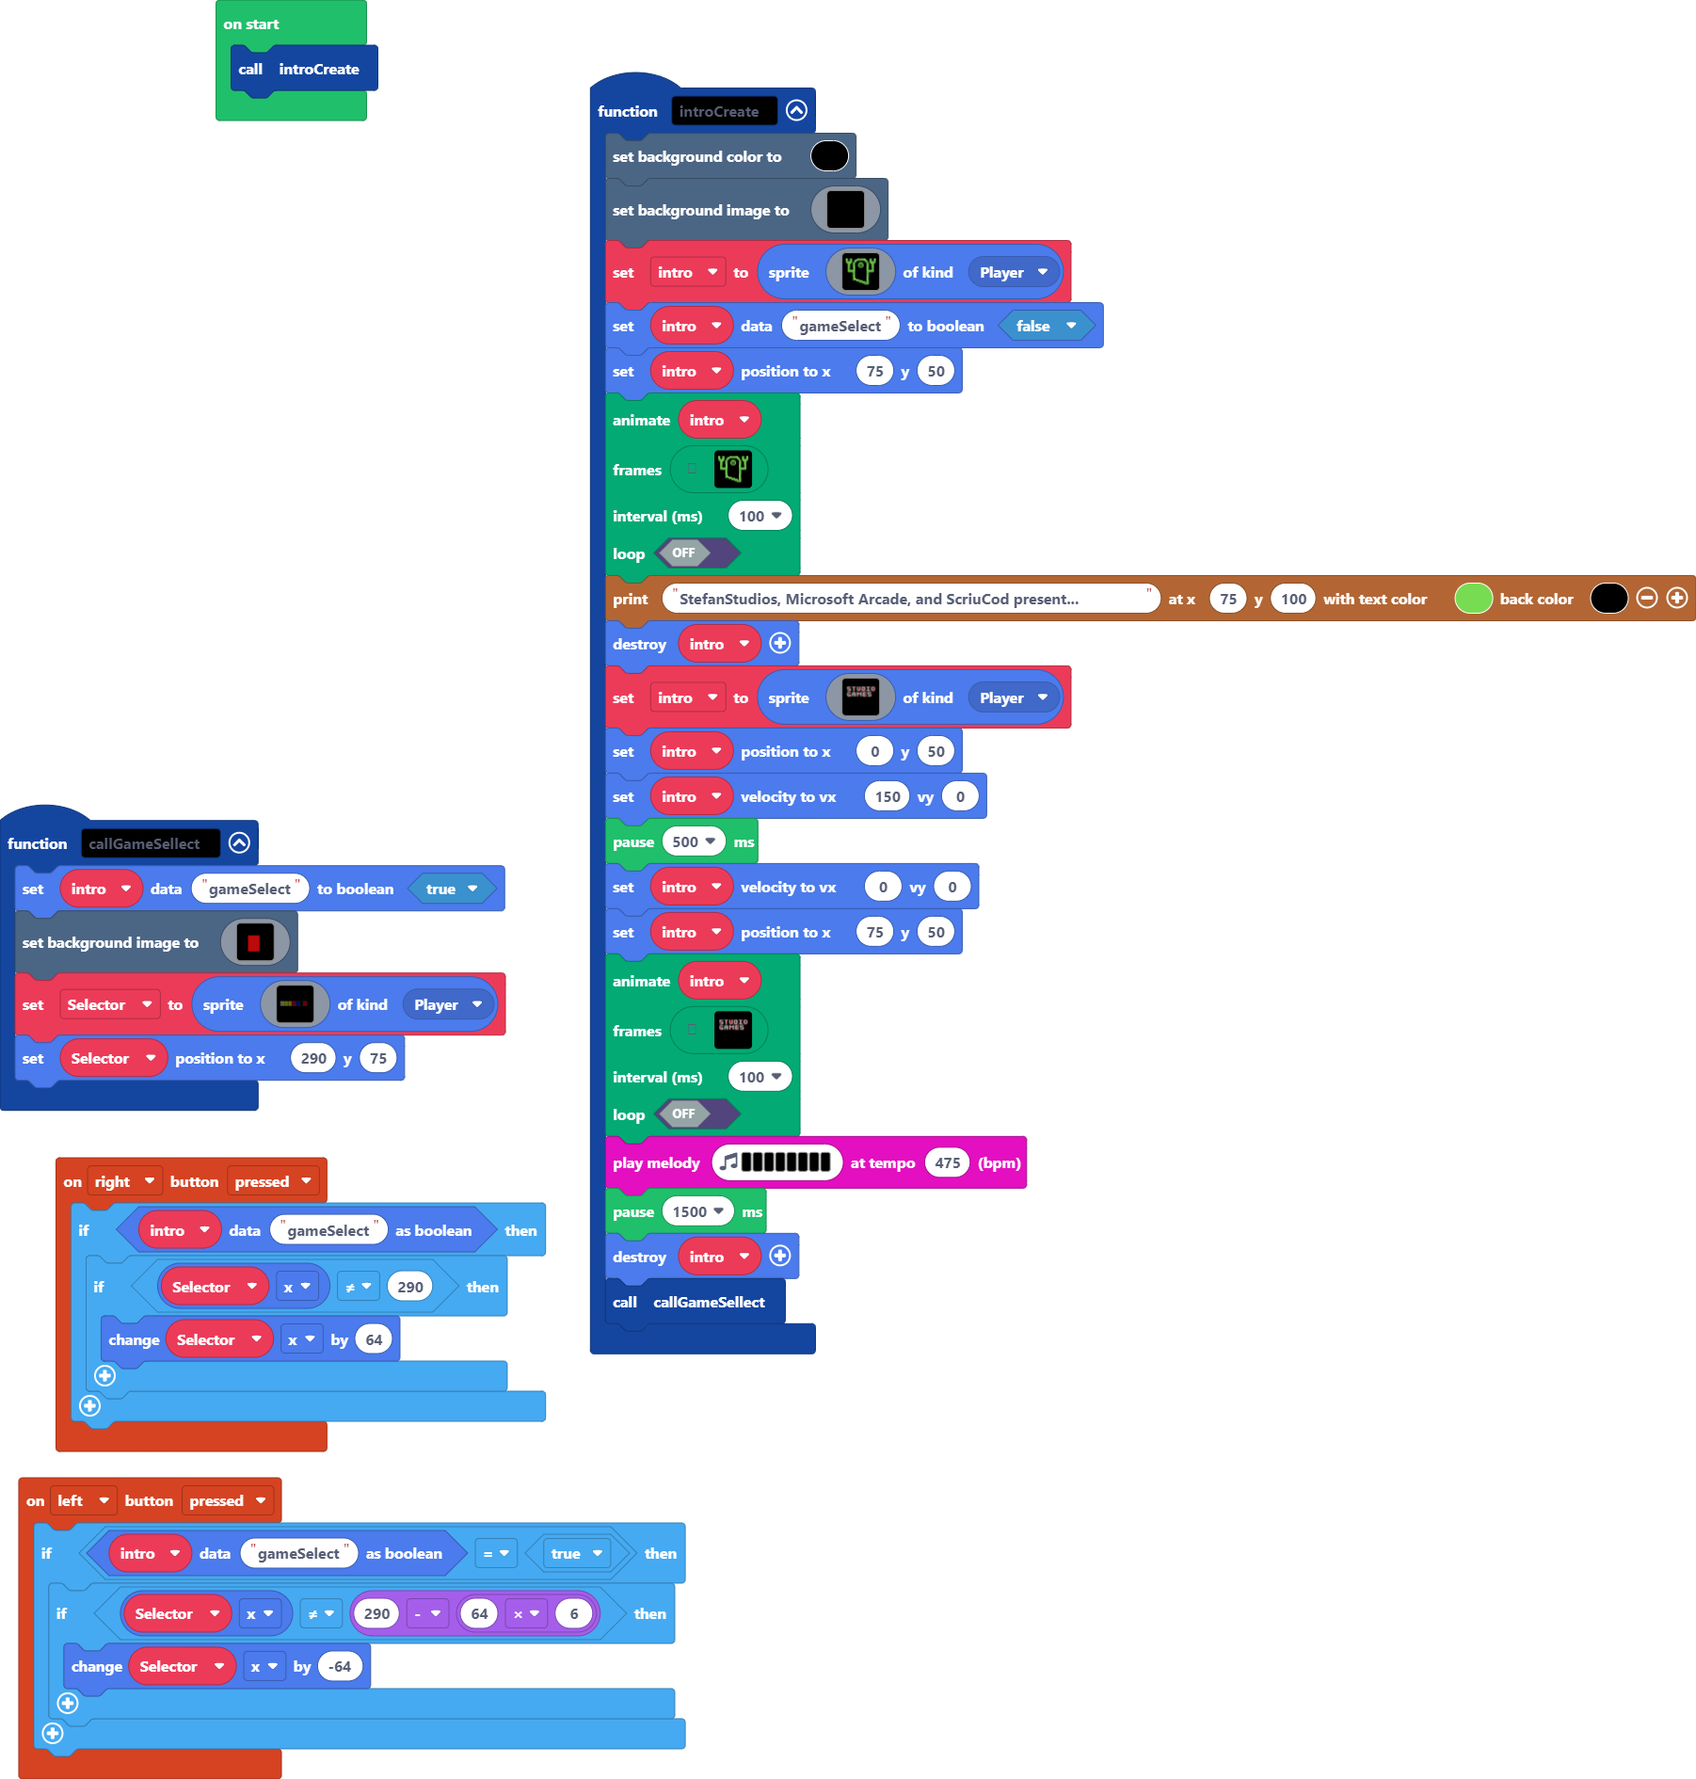
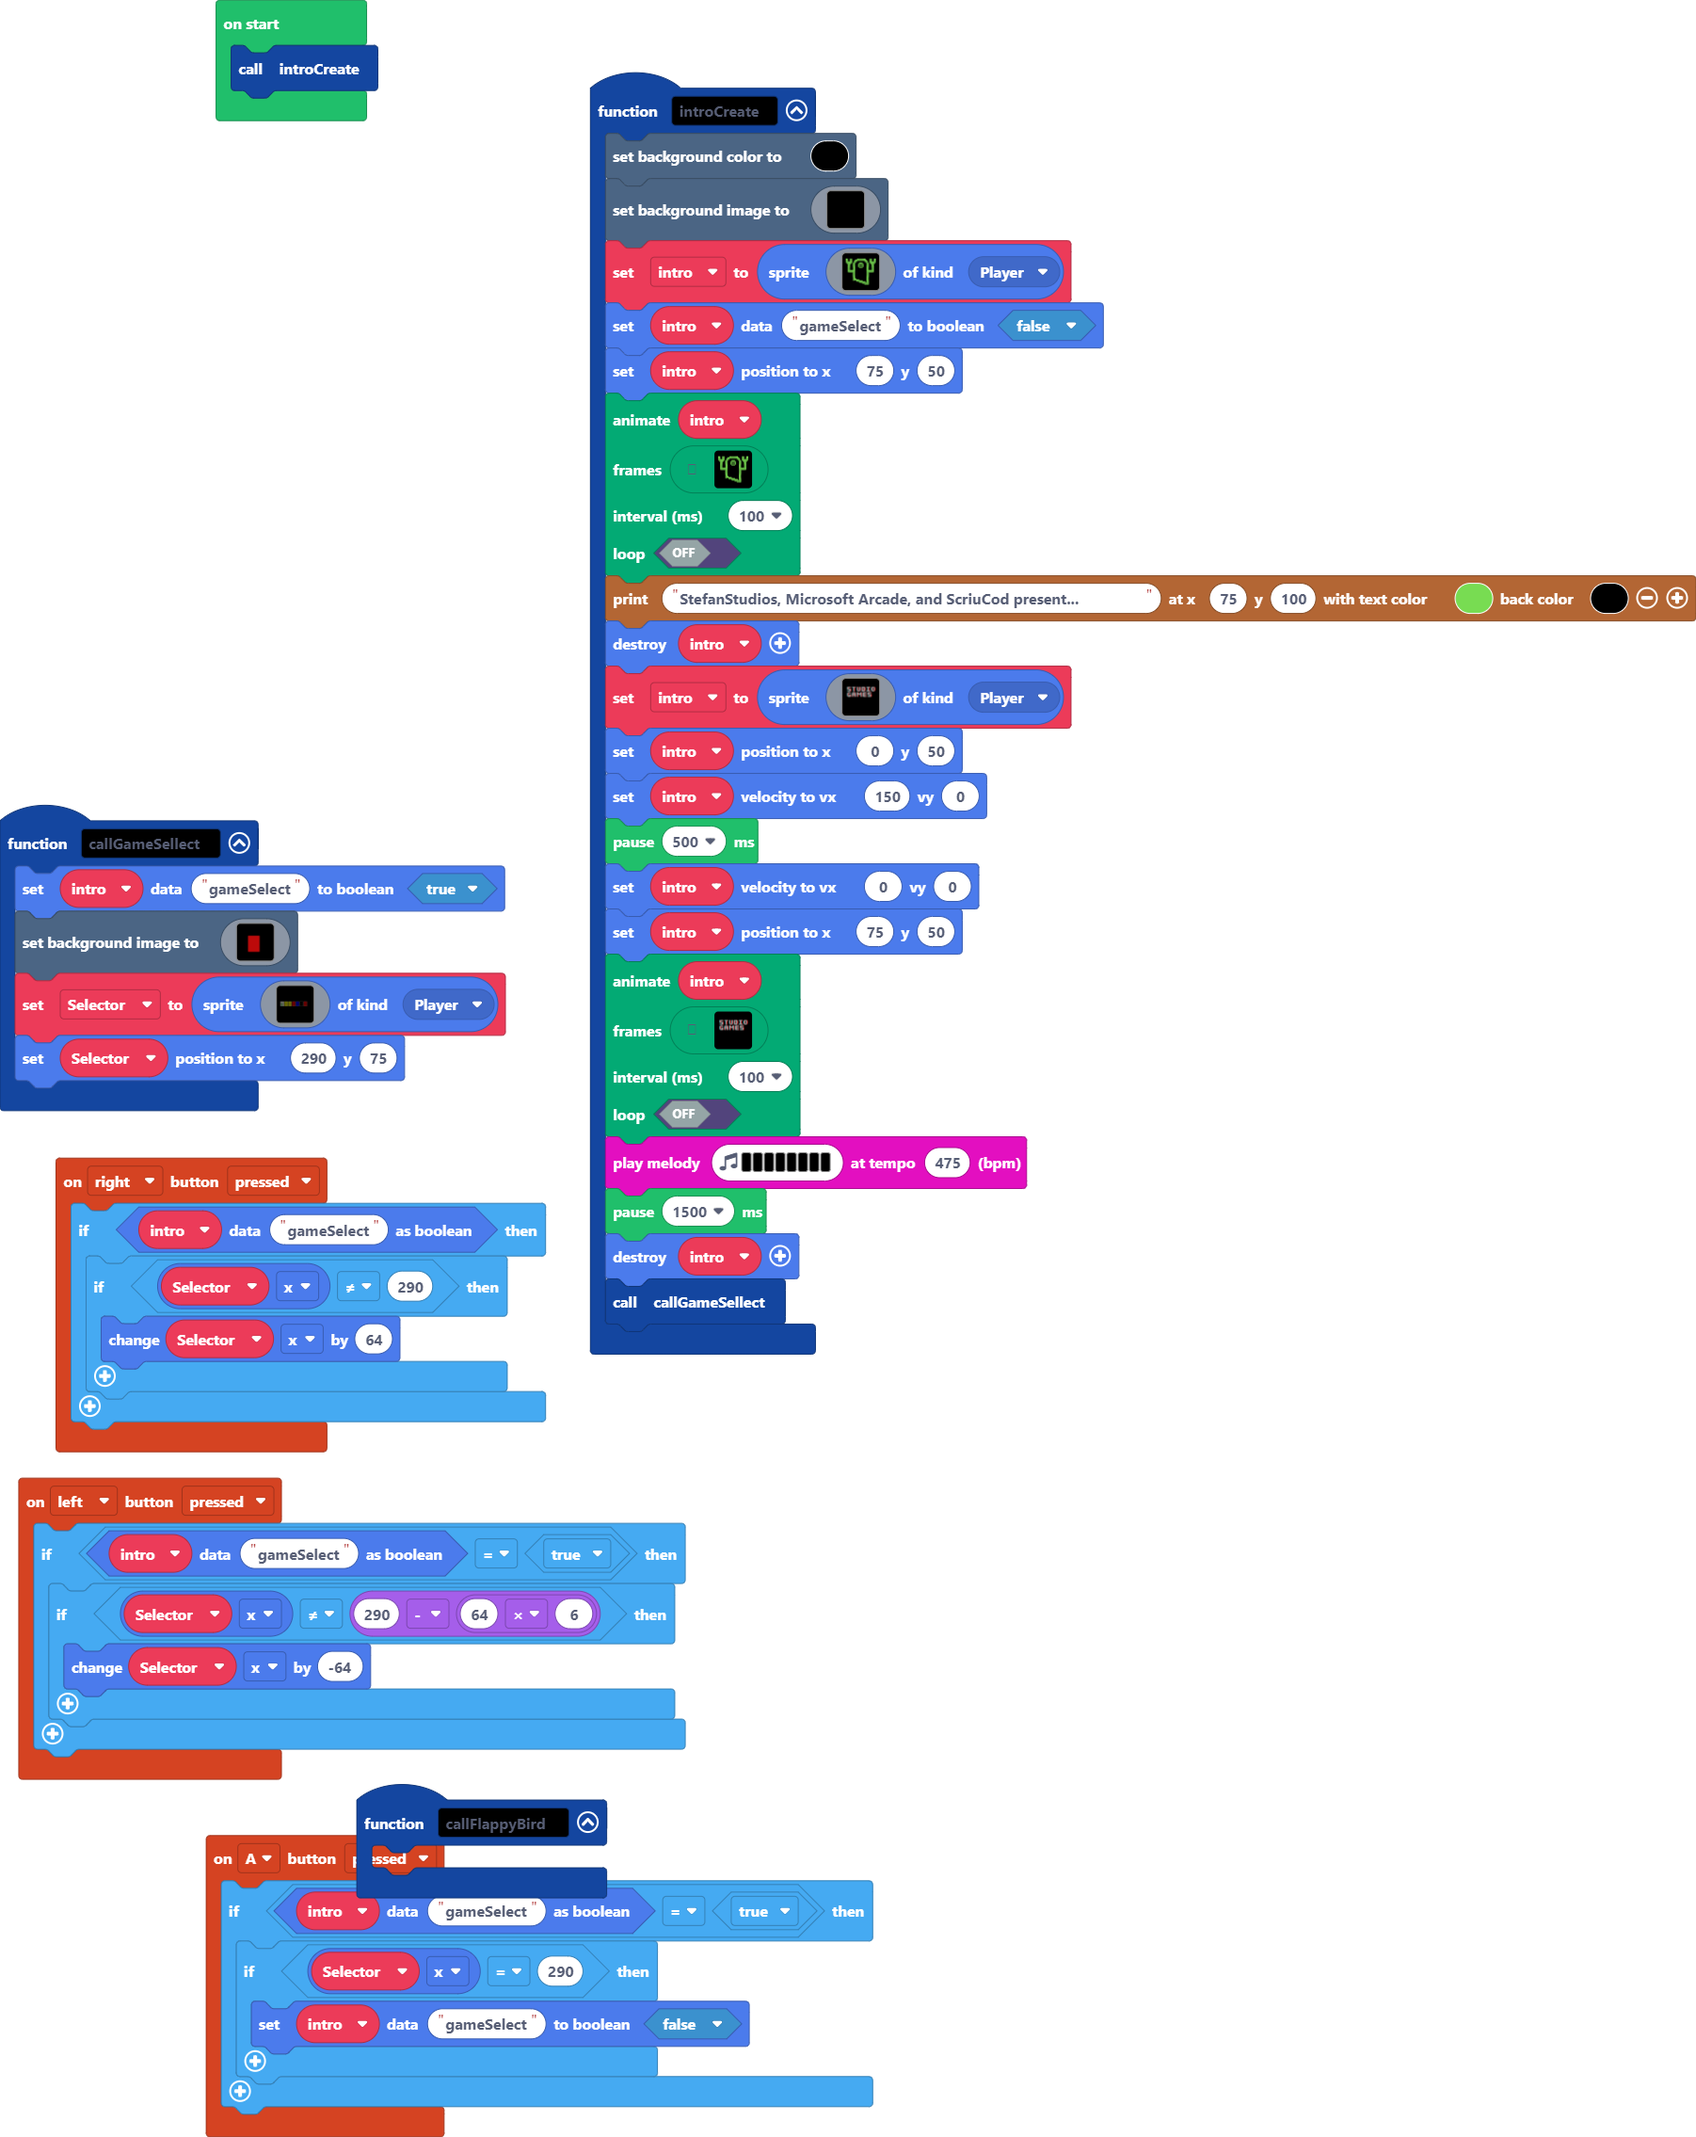
Started the first game, flappy bird!

Changed region(s): [[0.0, 0.0312, 1.0, 1.0], [0.1243, 0.0, 0.2175, 0.0937]]

diff --git a/main.ts b/main.ts
@@ -1,3 +1,10 @@
+controller.A.onEvent(ControllerButtonEvent.Pressed, function () {
+    if (sprites.readDataBoolean(intro, "gameSelect") == true) {
+        if (Selector.x == 290) {
+            sprites.setDataBoolean(intro, "gameSelect", false)
+        }
+    }
+})
 controller.left.onEvent(ControllerButtonEvent.Pressed, function () {
     if (sprites.readDataBoolean(intro, "gameSelect") == true) {
         if (Selector.x != 290 - 64 * 6) {
@@ -1164,6 +1171,9 @@ controller.right.onEvent(ControllerButtonEvent.Pressed, function () {
         }
     }
 })
+function callFlappyBird () {
+	
+}
 function callGameSellect () {
     sprites.setDataBoolean(intro, "gameSelect", true)
     scene.setBackgroundImage(img`
